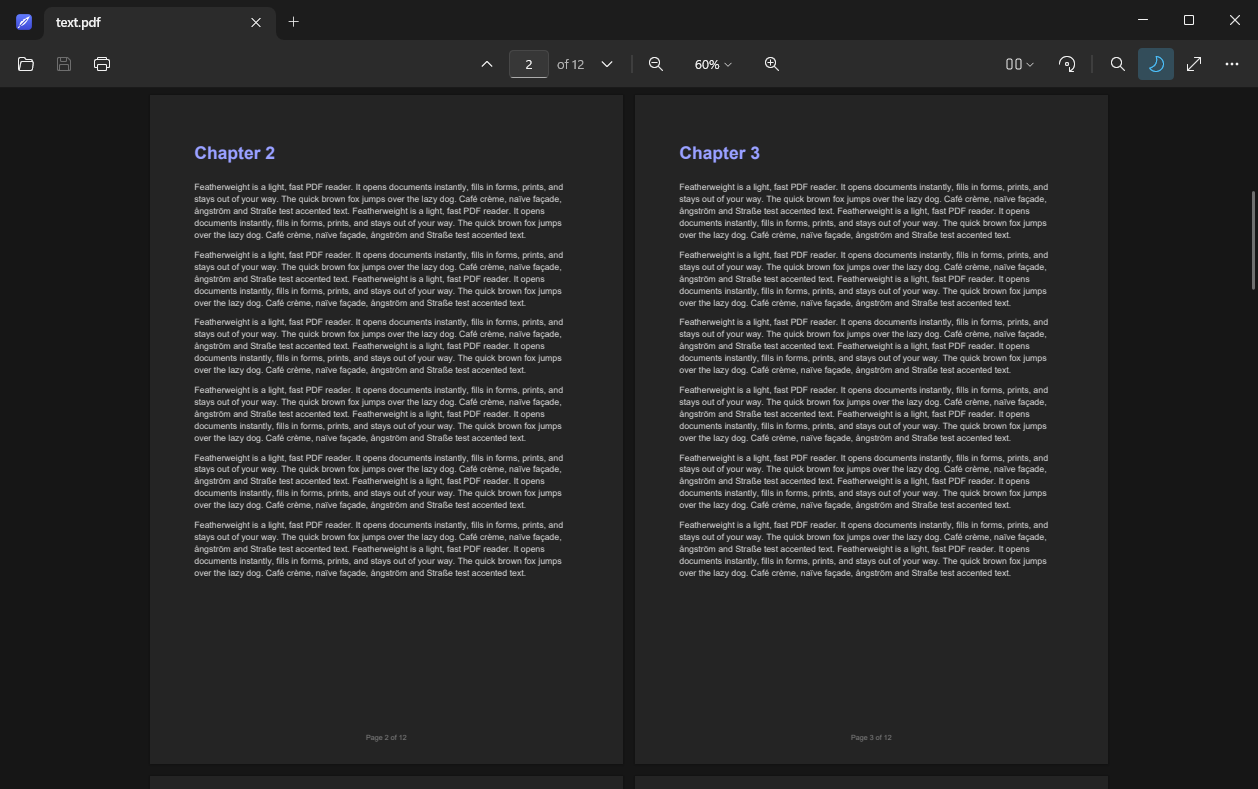
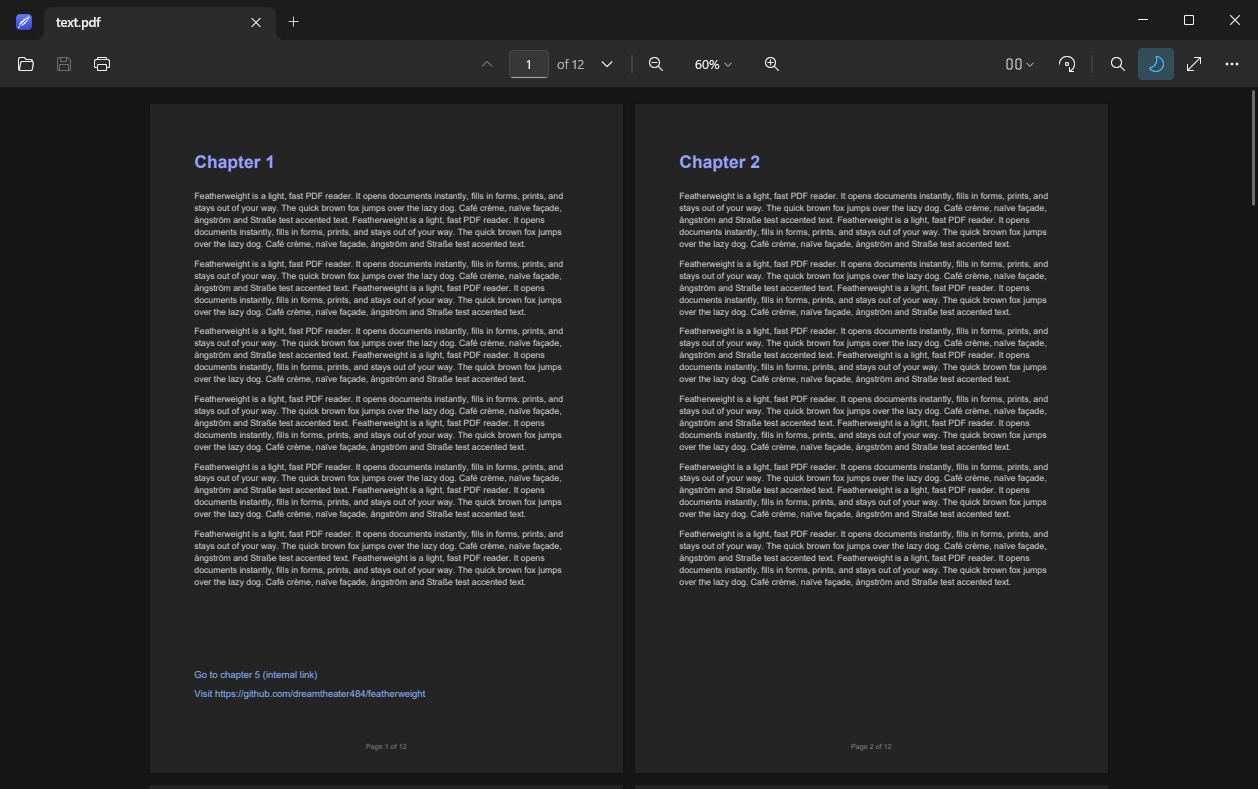
Two-page view shows pages 1 and 2 side by side by default
Book-style (cover page on its own) stays available in the page layout
menu. The setting is renamed so the old saved default doesn't carry over.

diff --git a/src/Settings.cpp b/src/Settings.cpp
@@ -44,7 +44,8 @@ void Settings::Load() {
   std::wstring t = ini_.Get(kGeneral, L"Theme", L"system");
   theme = t == L"light" ? ThemeSetting::Light : t == L"dark" ? ThemeSetting::Dark : ThemeSetting::System;
   invert = ini_.GetBool(kGeneral, L"InvertPages", false);
-  coverAlone = ini_.GetBool(kGeneral, L"CoverPageAlone", true);
+  coverAlone = ini_.GetBool(kGeneral, L"TwoPageCoverAlone", false);
+  ini_.Remove(kGeneral, L"CoverPageAlone");  // pre-0.9.2 name, which stored the old book-style default
   highlightFields = ini_.GetBool(kGeneral, L"HighlightFields", true);
   autoUpdate = ini_.GetBool(kGeneral, L"UpdateAutomatically", true);
   lastUpdateCheck = ini_.GetInt64(kGeneral, L"LastUpdateCheck", 0);
@@ -85,7 +86,7 @@ bool Settings::Save() {
   ini_.Set(kGeneral, L"Theme",
            theme == ThemeSetting::Light ? L"light" : theme == ThemeSetting::Dark ? L"dark" : L"system");
   ini_.SetBool(kGeneral, L"InvertPages", invert);
-  ini_.SetBool(kGeneral, L"CoverPageAlone", coverAlone);
+  ini_.SetBool(kGeneral, L"TwoPageCoverAlone", coverAlone);
   ini_.SetBool(kGeneral, L"HighlightFields", highlightFields);
   ini_.SetBool(kGeneral, L"UpdateAutomatically", autoUpdate);
   ini_.SetInt(kGeneral, L"LastUpdateCheck", lastUpdateCheck);

diff --git a/src/core/Layout.h b/src/core/Layout.h
@@ -34,7 +34,7 @@ struct LayoutInput {
   std::vector<PageSizePt> pages;
   int rotation = 0;  // view rotation, quarter turns clockwise
   ViewMode mode = ViewMode::Continuous;
-  bool coverAlone = true;  // facing mode: first page on its own, on the right
+  bool coverAlone = false;  // facing mode: first page on its own, on the right
   double scale = 1.0;      // device pixels per point
   int viewportW = 0;       // device pixels
   int margin = 16;         // around the content, device pixels
@@ -61,7 +61,7 @@ struct FitInput {
   const std::vector<PageSizePt>* pages = nullptr;
   int rotation = 0;
   ViewMode mode = ViewMode::Continuous;
-  bool coverAlone = true;
+  bool coverAlone = false;
   int refPage = 0;  // the page (row) that should fit
   int viewportW = 0, viewportH = 0;
   int margin = 16, gap = 12;

diff --git a/tests/unit/test_core.cpp b/tests/unit/test_core.cpp
@@ -170,6 +170,21 @@ TEST(Layout_FacingCoverAlone) {
   CHECK_EQ(FacingRowStart(3, false), 2);
 }
 
+TEST(Layout_FacingPairsFromFirstPage) {
+  LayoutInput in;
+  in.pages = Letter(5);
+  in.mode = ViewMode::Facing;
+  in.coverAlone = false;
+  in.scale = 1.0;
+  in.viewportW = 2000;
+  Layout L = ComputeLayout(in);
+  CHECK_EQ(L.rows.size(), 3u);  // [0 1] [2 3] [4]
+  CHECK(L.boxes[0].Right() < 1000 && L.boxes[1].x > 1000);  // page 1 left, page 2 right
+  CHECK_EQ(L.rowOfPage[1], 0);
+  CHECK(L.boxes[4].Right() < 1000);  // odd last page on the left
+  CHECK_EQ(FacingRowStart(3, false), 2);
+}
+
 TEST(Layout_SingleModeRowsShareY) {
   LayoutInput in;
   in.pages = Letter(3);

diff --git a/src/Settings.h b/src/Settings.h
@@ -38,7 +38,7 @@ class Settings {
 
   ThemeSetting theme = ThemeSetting::System;
   bool invert = false;
-  bool coverAlone = true;
+  bool coverAlone = false;  // two-page view: first page on its own, like a book cover
   bool highlightFields = true;
   bool autoUpdate = true;
   int64_t lastUpdateCheck = 0;
